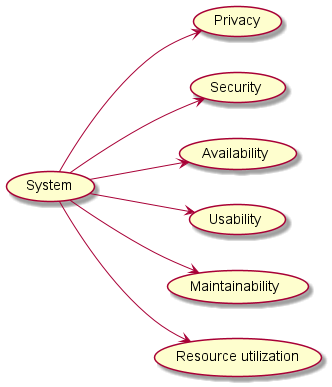
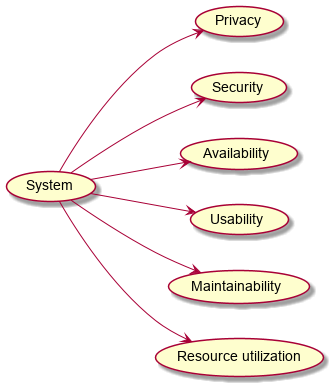
Updates

diff --git a/index.html b/index.html
@@ -1670,6 +1670,56 @@ here in this central section or whether you better document it locally
 </div>
 </div>
 </div>
+<table class="tableblock frame-all grid-all stretch">
+<colgroup>
+<col style="width: 33.3333%;">
+<col style="width: 33.3333%;">
+<col style="width: 33.3334%;">
+</colgroup>
+<thead>
+<tr>
+<th class="tableblock halign-left valign-top">Decision</th>
+<th class="tableblock halign-left valign-top">Pros</th>
+<th class="tableblock halign-left valign-top">Cons</th>
+</tr>
+</thead>
+<tbody>
+<tr>
+<td class="tableblock halign-left valign-top"><p class="tableblock">QA-1 Typescript</p></td>
+<td class="tableblock halign-left valign-top"><p class="tableblock">Typescript has optional static typing, you can spot early bugs,
+its predictable and readable.</p></td>
+<td class="tableblock halign-left valign-top"><p class="tableblock">Typescript cons are that it has not true static typing and
+it adds an extra step because it needs to convert it to Javascript.</p></td>
+</tr>
+<tr>
+<td class="tableblock halign-left valign-top"><p class="tableblock">QA-2 React</p></td>
+<td class="tableblock halign-left valign-top"><p class="tableblock">Easy to learn and use, reusable components, performance enhancement.</p></td>
+<td class="tableblock halign-left valign-top"><p class="tableblock">We started from zero so we needed to learn.</p></td>
+</tr>
+<tr>
+<td class="tableblock halign-left valign-top"><p class="tableblock">QA-3 MySQL</p></td>
+<td class="tableblock halign-left valign-top"><p class="tableblock">Portability, seamless connectivity, data security.</p></td>
+<td class="tableblock halign-left valign-top"><p class="tableblock">Do not support
+very large databases size as efficiently.</p></td>
+</tr>
+<tr>
+<td class="tableblock halign-left valign-top"><p class="tableblock">QA-4 Node.js</p></td>
+<td class="tableblock halign-left valign-top"><p class="tableblock">Uses Javascript, you can stream big files.</p></td>
+<td class="tableblock halign-left valign-top"><p class="tableblock">Do not provide scalability.</p></td>
+</tr>
+<tr>
+<td class="tableblock halign-left valign-top"><p class="tableblock">QA-5 Webapp</p></td>
+<td class="tableblock halign-left valign-top"><p class="tableblock">Better user experience, flexible access, easy setup.</p></td>
+<td class="tableblock halign-left valign-top"><p class="tableblock">Reduced speed, Internet reliance.</p></td>
+</tr>
+<tr>
+<td class="tableblock halign-left valign-top"><p class="tableblock">QA-6 Pod</p></td>
+<td class="tableblock halign-left valign-top"><p class="tableblock">Data security, all data in one place.</p></td>
+<td class="tableblock halign-left valign-top"><p class="tableblock">As the data is decentralized you need to rely on
+a different product and poor documentation.</p></td>
+</tr>
+</tbody>
+</table>
 <div style="page-break-after: always;"></div>
 </div>
 </div>
@@ -1701,7 +1751,7 @@ concrete and measurable.</p>
 <h3 id="_quality_tree">10.1. Quality Tree</h3>
 <div class="imageblock">
 <div class="content">
-<img src="./images/Quality%20tree.png" alt="Quality tree" width="332" height="387">
+<img src="./images/Quality%20tree.png" alt="Quality tree" width="334" height="387">
 </div>
 </div>
 <div class="sidebarblock arc42help">
@@ -1985,7 +2035,7 @@ Created by Dr. Peter Hruschka &amp; Dr. Gernot Starke.</p>
 </div>
 <div id="footer">
 <div id="footer-text">
-Last updated 2022-02-12 11:30:04 +0100
+Last updated 2022-02-12 11:07:06 +0100
 </div>
 </div>
 </body>
